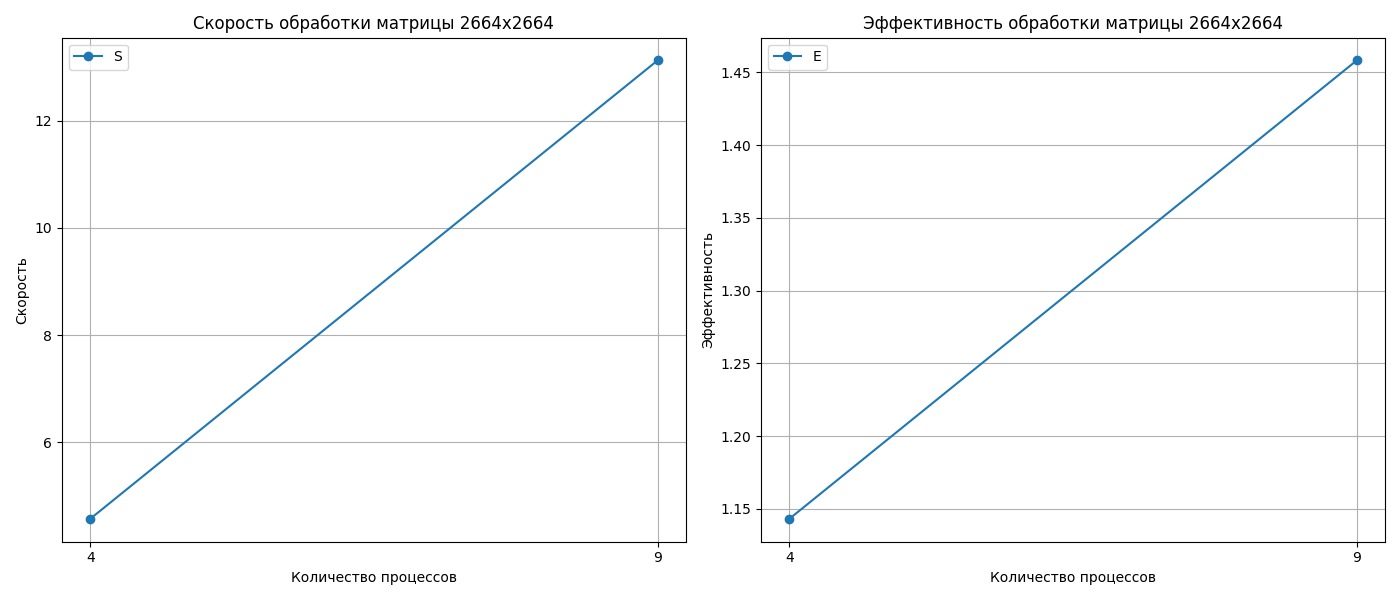
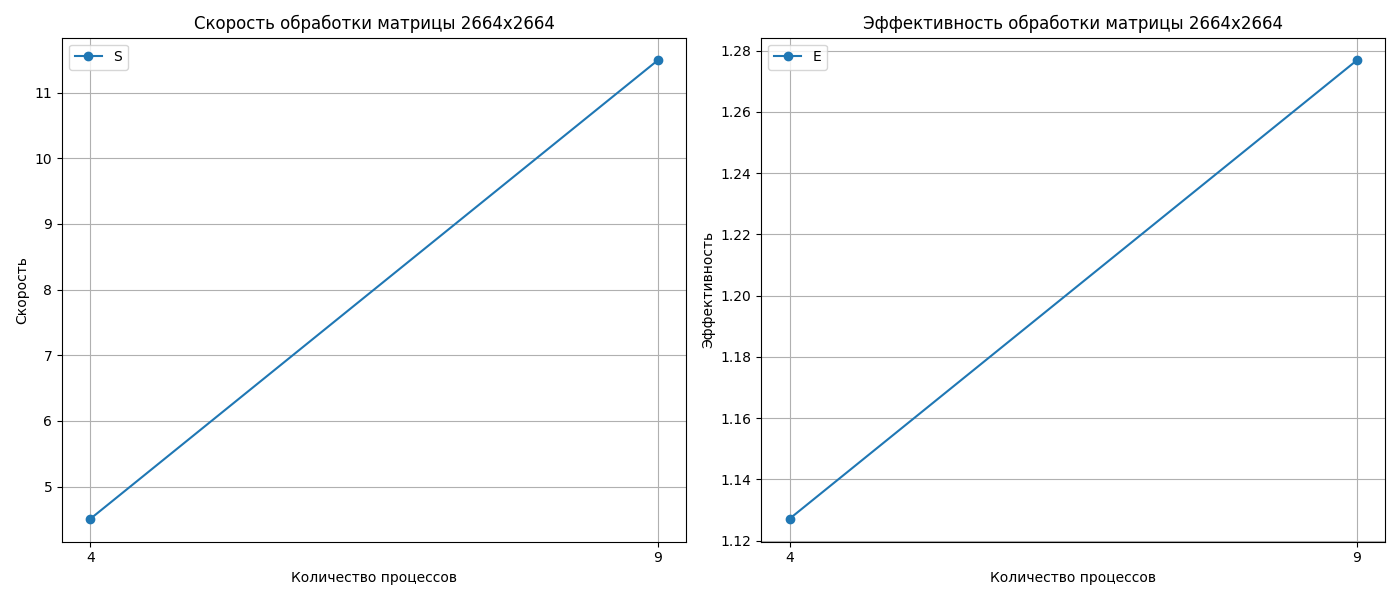
run new benchmarks + requirements.txt for python

diff --git a/src/task1/matmul_chess.c b/src/task1/matmul_chess.c
@@ -160,7 +160,8 @@ int main(int argc, char **argv) {
 
     if (argc != 2) {
         if (rank == 0) {
-            printf("Usage: mpirun -n <nodecount> ./program_name <matrix_size>\n");
+            printf(
+                "Usage: mpirun -n <nodecount> ./program_name <matrix_size>\n");
         }
         MPI_Finalize();
         return 1;
@@ -192,7 +193,8 @@ int main(int argc, char **argv) {
 
     // Выделяем память для локальных и глобальных данных
     double *matrix = NULL, *vector = NULL, *result = NULL;
-    double *local_matrix = (double *)malloc(block_size * block_size * sizeof(double));
+    double *local_matrix =
+        (double *)malloc(block_size * block_size * sizeof(double));
     double *local_result = (double *)malloc(block_size * sizeof(double));
     double *local_vector = (double *)malloc(block_size * sizeof(double));
 

diff --git a/utils/matmul_split_metrics.py b/utils/matmul_split_metrics.py
@@ -12,7 +12,7 @@ def run_mpi_program(num_processes, matrix_size):
         lines = []
         for prog_name in ["matmul_row.o", "matmul_col.o", "matmul_chess.o"]:
             output = subprocess.run(
-                ["mpirun", "--use-hwthread-cpus", "-np", str(num_processes), ROOT_DIR + "/src/task1/" + prog_name, str(matrix_size)],
+                ["mpirun", "-np", str(num_processes), ROOT_DIR + "/src/task1/" + prog_name, str(matrix_size)],
                 capture_output=True, text=True
             )
             lines += output.stdout.splitlines()
@@ -87,7 +87,7 @@ def plot_matrix_performance(data, save_path):
     plt.close()
 
 def main() -> None:
-    matrix_sizes = [576, 2304, 4608]
+    matrix_sizes = [576, 2304, 3636]
     num_processes = [1, 4, 9]
 
     os.makedirs(f'{ROOT_DIR}/src/task1/task_1_benchmark', exist_ok=True)

diff --git a/utils/cannon_matmul_metrics.py b/utils/cannon_matmul_metrics.py
@@ -62,7 +62,7 @@ def plot_matrix_performance(data, save_path):
 
 
 def main() -> None:
-    matrix_sizes = [x for x in range(500, 3_000) if x % 4 == 0 and x % 9 == 0][::10]
+    matrix_sizes = [x for x in range(500, 3_000) if x % 4 == 0 and x % 9 == 0][::20]
     num_processes = [1, 4, 9]
 
     os.makedirs(f'{ROOT_DIR}/src/task2/task_2_benchmark', exist_ok=True)

diff --git a/src/task1/matmul_col.c b/src/task1/matmul_col.c
@@ -87,7 +87,7 @@ int main(int argc, char *argv[]) {
     end = MPI_Wtime();
     // Print results on the root process
     if (rank == 0) {
-        printf("Column-split time time: %f seconds\n", end - start);
+        printf("Column-split time: %f seconds\n", end - start);
 
 #ifdef VERBOSE
         printf("Column-split time result: ");

diff --git a/src/task1/task_1_benchmark/size=2304/table.md b/src/task1/task_1_benchmark/size=2304/table.md
@@ -1,0 +1,5 @@
+|  Размер матрицы **A**  |  Количество процессов **P**  |  Разбиение по строкам (S, E)  |  Разбиение по столбцам (S, E)  |  Разбиение на блоки (S, E)  |
+| :---: | :---: | :---: | :---: | :---: |
+|  2304x2304  |  1  |  ('-', '-')  |  ('-', '-')  |  ('-', '-')  |
+|  2304x2304  |  4  |  (1.5672, 0.3918)  |  (0.8822, 0.2205)  |  (1.5056, 0.3764)  |
+|  2304x2304  |  9  |  (1.3228, 0.147)  |  (1.4149, 0.1572)  |  (0.7033, 0.0781)  |

diff --git a/src/task1/task_1_benchmark/size=3636/table.md b/src/task1/task_1_benchmark/size=3636/table.md
@@ -1,0 +1,5 @@
+|  Размер матрицы **A**  |  Количество процессов **P**  |  Разбиение по строкам (S, E)  |  Разбиение по столбцам (S, E)  |  Разбиение на блоки (S, E)  |
+| :---: | :---: | :---: | :---: | :---: |
+|  3636x3636  |  1  |  ('-', '-')  |  ('-', '-')  |  ('-', '-')  |
+|  3636x3636  |  4  |  (2.6585, 0.6646)  |  (1.2394, 0.3099)  |  (2.215, 0.5537)  |
+|  3636x3636  |  9  |  (1.57, 0.1744)  |  (1.2008, 0.1334)  |  (1.3362, 0.1485)  |

diff --git a/src/task1/task_1_benchmark/size=576/table.md b/src/task1/task_1_benchmark/size=576/table.md
@@ -1,0 +1,5 @@
+|  Размер матрицы **A**  |  Количество процессов **P**  |  Разбиение по строкам (S, E)  |  Разбиение по столбцам (S, E)  |  Разбиение на блоки (S, E)  |
+| :---: | :---: | :---: | :---: | :---: |
+|  576x576  |  1  |  ('-', '-')  |  ('-', '-')  |  ('-', '-')  |
+|  576x576  |  4  |  (1.3719, 0.343)  |  (0.0728, 0.0182)  |  (0.3145, 0.0786)  |
+|  576x576  |  9  |  (0.0236, 0.0026)  |  (0.0255, 0.0028)  |  (0.104, 0.0116)  |

diff --git a/README.md b/README.md
@@ -26,6 +26,7 @@ mpirun -np 4 src/task1/matmul_chess.o 576
 If you want to see debug info then build program with `-DVERBOSE` key.
 
 Example:
+
 ```bash
 mpic++ src/task1/matmul_row.c -o src/task1/matmul_row.o -DVERBOSE
 ```
@@ -52,5 +53,5 @@ mpirun -np 4 path_to_object.o
 cd utils
 python3 -m venv .venv
 source .venv/bin/activate
-pip3 install numpy pandas matplotlib
+pip install -r requirements.txt
 ```

diff --git a/src/task2/task_2_benchmark/size=1944/table.md b/src/task2/task_2_benchmark/size=1944/table.md
@@ -1,5 +1,5 @@
 |  Размер матрицы **A**  |  Количество процессов **P**  |  **S**  |  **E**  |
 | :---: | :---: | :---: | :---: |
 |  1944x1944  |  1  |  -  |  -  |
-|  1944x1944  |  4  |  5.3541  |  1.3385  |
-|  1944x1944  |  9  |  11.3904  |  1.2656  |
+|  1944x1944  |  4  |  5.2426  |  1.3107  |
+|  1944x1944  |  9  |  10.8877  |  1.2097  |

diff --git a/src/task2/task_2_benchmark/size=2664/table.md b/src/task2/task_2_benchmark/size=2664/table.md
@@ -1,5 +1,5 @@
 |  Размер матрицы **A**  |  Количество процессов **P**  |  **S**  |  **E**  |
 | :---: | :---: | :---: | :---: |
 |  2664x2664  |  1  |  -  |  -  |
-|  2664x2664  |  4  |  4.5725  |  1.1431  |
-|  2664x2664  |  9  |  13.1229  |  1.4581  |
+|  2664x2664  |  4  |  4.5084  |  1.1271  |
+|  2664x2664  |  9  |  11.4912  |  1.2768  |

diff --git a/src/task2/task_2_benchmark/size=1224/table.md b/src/task2/task_2_benchmark/size=1224/table.md
@@ -1,5 +1,5 @@
 |  Размер матрицы **A**  |  Количество процессов **P**  |  **S**  |  **E**  |
 | :---: | :---: | :---: | :---: |
 |  1224x1224  |  1  |  -  |  -  |
-|  1224x1224  |  4  |  4.2835  |  1.0709  |
-|  1224x1224  |  9  |  8.2816  |  0.9202  |
+|  1224x1224  |  4  |  4.2852  |  1.0713  |
+|  1224x1224  |  9  |  7.1493  |  0.7944  |

diff --git a/src/task2/task_2_benchmark/size=504/table.md b/src/task2/task_2_benchmark/size=504/table.md
@@ -1,5 +1,5 @@
 |  Размер матрицы **A**  |  Количество процессов **P**  |  **S**  |  **E**  |
 | :---: | :---: | :---: | :---: |
 |  504x504  |  1  |  -  |  -  |
-|  504x504  |  4  |  3.8639  |  0.966  |
-|  504x504  |  9  |  5.7436  |  0.6382  |
+|  504x504  |  4  |  3.2371  |  0.8093  |
+|  504x504  |  9  |  2.795  |  0.3106  |
